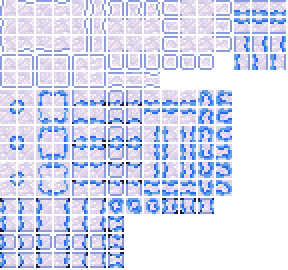
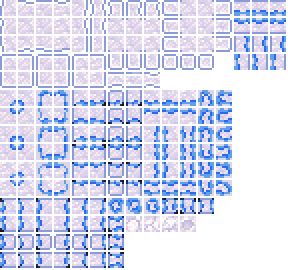
Extra salt frames

Changed region(s): [[0.4375, 0.8, 0.6875, 0.8593]]

diff --git a/Content/SaltFlats/SaltFlatsEcotone.cs b/Content/SaltFlats/SaltFlatsEcotone.cs
@@ -243,30 +243,29 @@ internal class SaltFlatsEcotone : EcotoneBase
 				if (!aboveTile.HasTile && (leftEmpty || rightEmpty)) //Slopes
 				{
 					tile.Clear(TileDataType.Slope);
+
 					if (WorldGen.genRand.NextBool(4))
-					{
 						tile.IsHalfBlock = true;
-					}
 					else
-					{
-						SlopeType slope = leftEmpty ? SlopeType.SlopeDownRight : SlopeType.SlopeDownLeft;
-						tile.Slope = slope;
-					}
+						tile.Slope = leftEmpty ? SlopeType.SlopeDownRight : SlopeType.SlopeDownLeft;
 
 					return false;
 				}
 
-				if (!WorldGen.SolidTile(i, j - 1))
+				if (!WorldGen.SolidTile(i, j - 1) && aboveTile.LiquidAmount < 20)
 				{
-					if (aboveTile.LiquidAmount < 20 && WorldGen.genRand.NextBool(6))
+					if (WorldGen.genRand.NextBool(6))
 						Placer.PlaceTile<StoneStupas>(i - 1, j - 1, WorldGen.genRand.Next(0, 12));
 
-					if (aboveTile.LiquidAmount < 20 && WorldGen.genRand.NextBool(2))
+					if (WorldGen.genRand.NextBool(2))
 						Placer.PlaceTile<Saltwort>(i, j - 1);
+
+					if (WorldGen.genRand.NextBool(12))
+						Placer.PlaceTile<SaltwortTall>(i, j - 1);
 
 					Vector2 pt = new(i, j - 1);
 
-					if (aboveTile.WallType == WallID.None && aboveTile.LiquidAmount == 0 && WorldGen.genRand.NextBool(35) && !treePoints.Any(x => x.DistanceSQ(pt) < 8 * 8) && CustomTree.GrowTree<DeadTree>(i, j - 1))
+					if (aboveTile.WallType == WallID.None && WorldGen.genRand.NextBool(35) && !treePoints.Any(x => x.DistanceSQ(pt) < 8 * 8) && CustomTree.GrowTree<DeadTree>(i, j - 1))
 						treePoints.Add(pt);
 				}
 

diff --git a/Content/SaltFlats/Tiles/Salt/SaltBlockDull.cs b/Content/SaltFlats/Tiles/Salt/SaltBlockDull.cs
@@ -2,6 +2,7 @@ using SpiritReforged.Common.Particle;
 using SpiritReforged.Common.TileCommon;
 using SpiritReforged.Common.TileCommon.TileMerging;
 using SpiritReforged.Content.Particles;
+using Terraria.DataStructures;
 
 namespace SpiritReforged.Content.SaltFlats.Tiles.Salt;
 
@@ -18,8 +19,14 @@ public class SaltBlockDull : SaltBlock
 
 	public override void RandomUpdate(int i, int j)
 	{
-		if (Main.rand.NextBool(4) && Framing.GetTileSafely(i, j - 1).LiquidAmount < 20)
-			Placer.Check(i, j - 1, ModContent.TileType<Saltwort>()).IsClear().Place().Send();
+		if (Framing.GetTileSafely(i, j - 1).LiquidAmount < 20)
+		{
+			if (Main.rand.NextBool(4))
+				Placer.Check(i, j - 1, ModContent.TileType<Saltwort>()).IsClear().Place().Send();
+
+			if (Main.rand.NextBool(8))
+				Placer.Check(i, j - 1, ModContent.TileType<SaltwortTall>()).IsClear().Place().Send();
+		}
 	}
 
 	public override void FloorVisuals(Player player)
@@ -37,6 +44,20 @@ public class SaltBlockDull : SaltBlock
 			};
 
 			ParticleHandler.SpawnParticle(smoke);
+		}
+	}
+
+	public override void PostTileFrame(int i, int j, int up, int down, int left, int right, int upLeft, int upRight, int downLeft, int downRight)
+	{
+		var t = Main.tile[i, j];
+
+		if (Main.rand.NextBool(15) && t.TileFrameX is 18 or 36 or 54 && t.TileFrameY is 18) //Plain center frames
+		{
+			Point16 result = new(126, 216);
+			int random = Main.rand.Next(4);
+
+			t.TileFrameX = (short)(result.X + 18 * random);
+			t.TileFrameY = result.Y;
 		}
 	}
 
